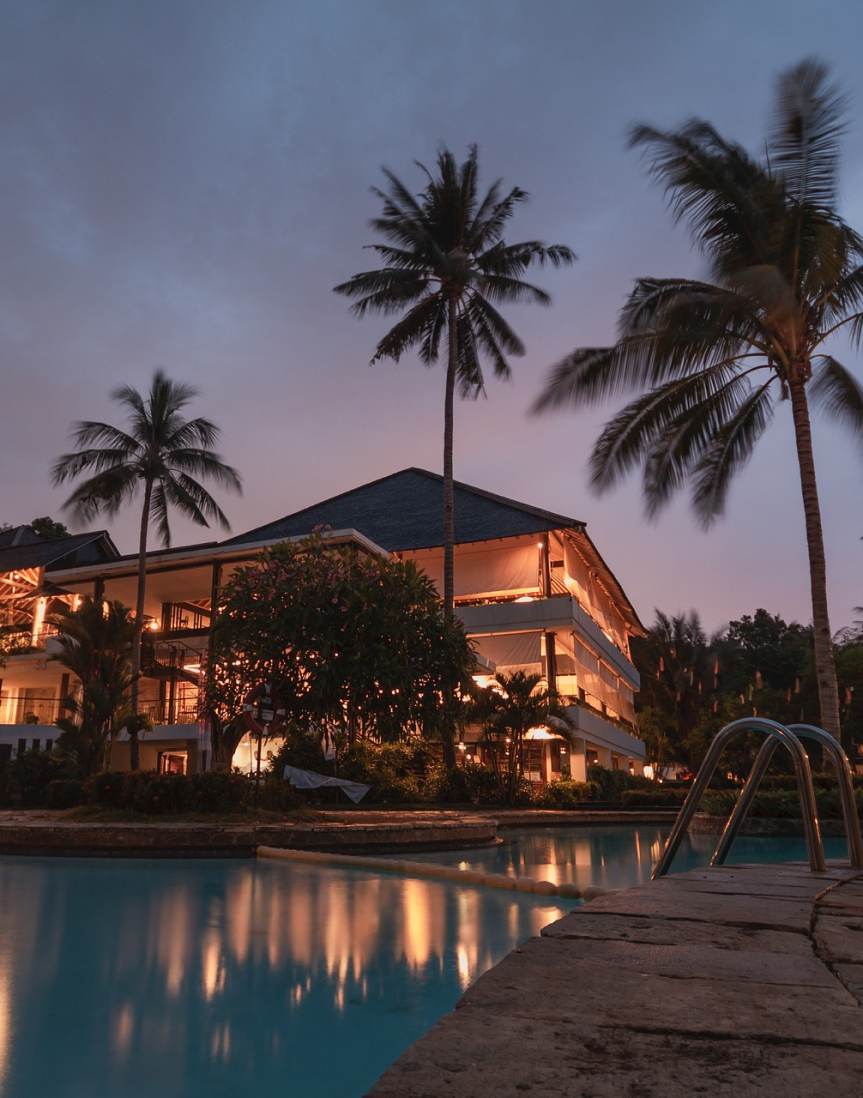
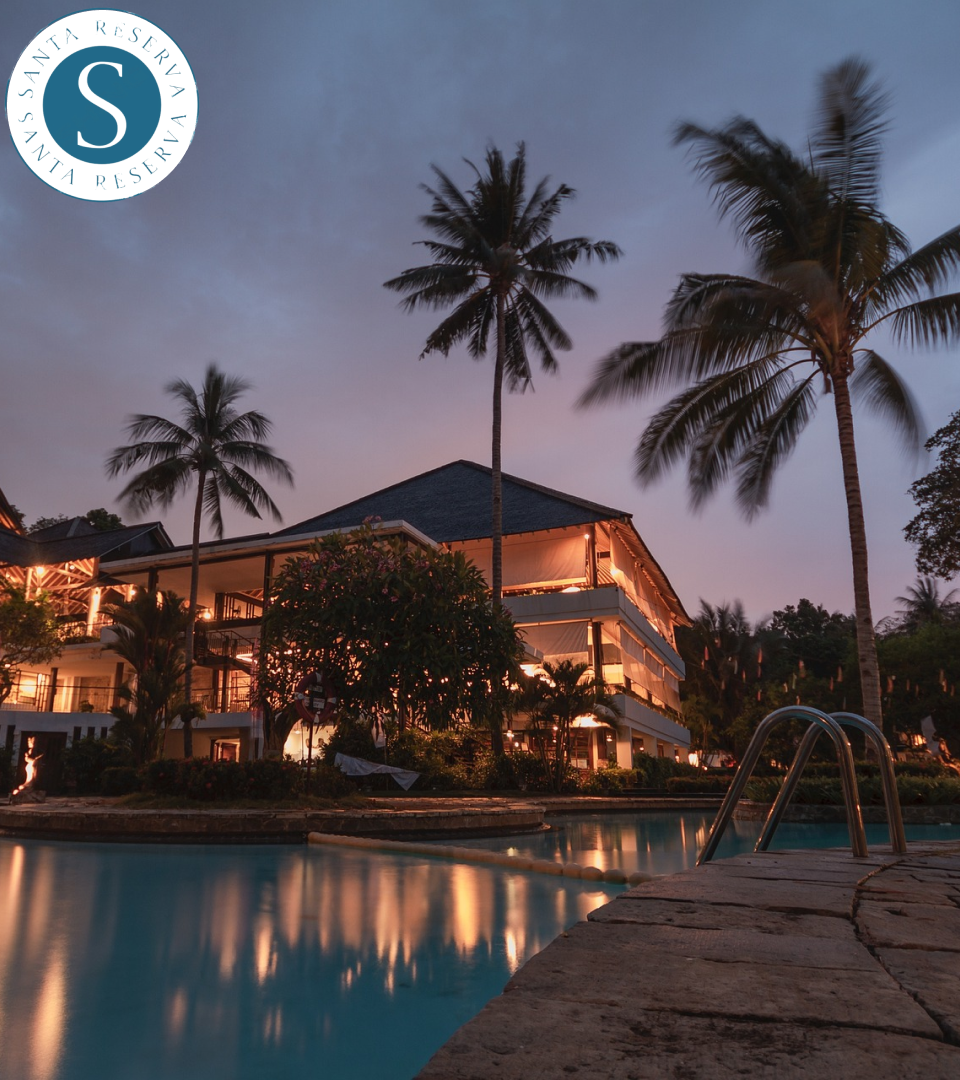
Auto stash before checking out "origin/main"

diff --git a/santareserva/src/main/java/visao/TelaCadastro.java b/santareserva/src/main/java/visao/TelaCadastro.java
@@ -11,15 +11,15 @@ import java.awt.Color;
 import java.awt.Font;
 import javax.swing.JTextField;
 import javax.swing.ImageIcon;
+import java.awt.Toolkit;
 
 public class TelaCadastro extends JFrame {
 
 	private JPanel Tela;
-	private JTextField txtUser;
+	private JTextField txtEmail;
 	private JTextField txtSobrenome;
 	private JTextField txtNascimento;
 	private JTextField txtTelefone;
-	private JTextField txtEmail;
 	private JTextField txtSenha;
 	private JTextField txtNome;
 
@@ -43,73 +43,74 @@ public class TelaCadastro extends JFrame {
 	 * Create the frame.
 	 */
 	public TelaCadastro() {
+		setIconImage(Toolkit.getDefaultToolkit().getImage("C:\\Users\\Aluno\\Desktop\\PI-SantaReserva\\santareserva\\src\\main\\resources\\Icones\\LogoAPP.png"));
 		setTitle("Bem-vindo à Santa Reserva");
 		setDefaultCloseOperation(JFrame.EXIT_ON_CLOSE);
 		setBounds(100, 100, 1920, 1080);
 		Tela = new JPanel();
 		Tela.setBackground(new Color(238, 238, 238));
-		Tela.setBorder(new EmptyBorder(5, 5, 5, 5));
+		Tela.setBorder(null);
 
 		setContentPane(Tela);
-		Tela.setLayout(new MigLayout("", "[][][][][][][][][][][][][][][grow]", "[grow][][][][][60px]"));
+		Tela.setLayout(new MigLayout("", "[960][][][][][][][][][][][][][][][1000px]", "[800px,grow][][][][][60px]"));
+		
+		JPanel PainelHotel = new JPanel();
+		Tela.add(PainelHotel, "cell 0 0,grow");
+		PainelHotel.setLayout(new MigLayout("", "[]", "[]"));
+		
+		JLabel ImgHotel = new JLabel("");
+		ImgHotel.setIcon(new ImageIcon("C:\\Users\\Aluno\\Desktop\\PI-SantaReserva\\santareserva\\src\\main\\resources\\Fotos\\Hotel.png"));
+		PainelHotel.add(ImgHotel, "cell 0 0,alignx left,aligny top");
 		
 		JPanel PainelCadastro = new JPanel();
-		Tela.add(PainelCadastro, "cell 14 0 1 6,alignx center,growy");
-		PainelCadastro.setLayout(new MigLayout("", "[195px,grow]", "[42px][][][40px][][40px][][40px][][40px][][40px][][40px][][40px][][][][][][grow][]"));
+		Tela.add(PainelCadastro, "cell 15 0 1 6,alignx center,growy");
+		PainelCadastro.setLayout(new MigLayout("", "[195px,grow]", "[][40px][][40px][][40px][][40px][][40px][][40px][][40px][][40px][180px][][]"));
 		
 		JLabel lblRegistro = new JLabel("Registrar-se");
 		lblRegistro.setFont(new Font("Arial", Font.PLAIN, 36));
 		PainelCadastro.add(lblRegistro, "cell 0 0,alignx center,aligny top");
 		
-		JLabel lblUser = new JLabel("Nome de Usuário");
-		lblUser.setFont(new Font("Arial", Font.PLAIN, 32));
-		PainelCadastro.add(lblUser, "cell 0 2");
+		JLabel lblEmail = new JLabel("Email");
+		lblEmail.setFont(new Font("Arial", Font.PLAIN, 32));
+		PainelCadastro.add(lblEmail, "cell 0 4");
 		
-		txtUser = new JTextField();
-		txtUser.setFont(new Font("Arial", Font.PLAIN, 32));
-		PainelCadastro.add(txtUser, "cell 0 3,grow");
-		txtUser.setColumns(10);
+		txtEmail = new JTextField();
+		txtEmail.setFont(new Font("Arial", Font.PLAIN, 32));
+		PainelCadastro.add(txtEmail, "cell 0 5,grow");
+		txtEmail.setColumns(10);
 		
 		JLabel lblNome = new JLabel("Nome");
 		lblNome.setFont(new Font("Arial", Font.PLAIN, 32));
-		PainelCadastro.add(lblNome, "cell 0 4");
+		PainelCadastro.add(lblNome, "cell 0 6");
 		
 		txtNome = new JTextField();
-		PainelCadastro.add(txtNome, "cell 0 5,grow");
+		PainelCadastro.add(txtNome, "cell 0 7,grow");
 		txtNome.setColumns(10);
 		
 		JLabel lblSobrenome = new JLabel("Sobrenome");
 		lblSobrenome.setFont(new Font("Arial", Font.PLAIN, 32));
-		PainelCadastro.add(lblSobrenome, "cell 0 6");
+		PainelCadastro.add(lblSobrenome, "cell 0 8");
 		
 		txtSobrenome = new JTextField();
 		txtSobrenome.setFont(new Font("Arial", Font.PLAIN, 32));
-		PainelCadastro.add(txtSobrenome, "cell 0 7,grow");
+		PainelCadastro.add(txtSobrenome, "cell 0 9,grow");
 		txtSobrenome.setColumns(10);
 		
 		JLabel lblNascimento = new JLabel("Data de nascimento");
 		lblNascimento.setFont(new Font("Arial", Font.PLAIN, 32));
-		PainelCadastro.add(lblNascimento, "cell 0 8");
+		PainelCadastro.add(lblNascimento, "cell 0 10");
 		
 		txtNascimento = new JTextField();
-		PainelCadastro.add(txtNascimento, "cell 0 9,grow");
+		PainelCadastro.add(txtNascimento, "cell 0 11,grow");
 		txtNascimento.setColumns(10);
 		
 		JLabel lblTelefone = new JLabel("Telefone");
 		lblTelefone.setFont(new Font("Arial", Font.PLAIN, 32));
-		PainelCadastro.add(lblTelefone, "cell 0 10");
+		PainelCadastro.add(lblTelefone, "cell 0 12");
 		
 		txtTelefone = new JTextField();
-		PainelCadastro.add(txtTelefone, "cell 0 11,grow");
+		PainelCadastro.add(txtTelefone, "cell 0 13,grow");
 		txtTelefone.setColumns(10);
-		
-		JLabel lblEmail = new JLabel("Email");
-		lblEmail.setFont(new Font("Arial", Font.PLAIN, 32));
-		PainelCadastro.add(lblEmail, "cell 0 12");
-		
-		txtEmail = new JTextField();
-		PainelCadastro.add(txtEmail, "cell 0 13,grow");
-		txtEmail.setColumns(10);
 		
 		JLabel lblSenha = new JLabel("Senha");
 		lblSenha.setFont(new Font("Arial", Font.PLAIN, 32));
@@ -121,7 +122,7 @@ public class TelaCadastro extends JFrame {
 		
 		JLabel BTNRegistrar = new JLabel("");
 		BTNRegistrar.setIcon(new ImageIcon("C:\\Users\\Aluno\\Desktop\\PI-SantaReserva\\santareserva\\src\\main\\resources\\Botões\\BTN Registrar.png"));
-		PainelCadastro.add(BTNRegistrar, "cell 0 18");
+		PainelCadastro.add(BTNRegistrar, "cell 0 21");
 		
 		JLabel lblJapossui = new JLabel("Já possui registro? Faça o Login");
 		lblJapossui.setFont(new Font("Arial", Font.PLAIN, 20));
